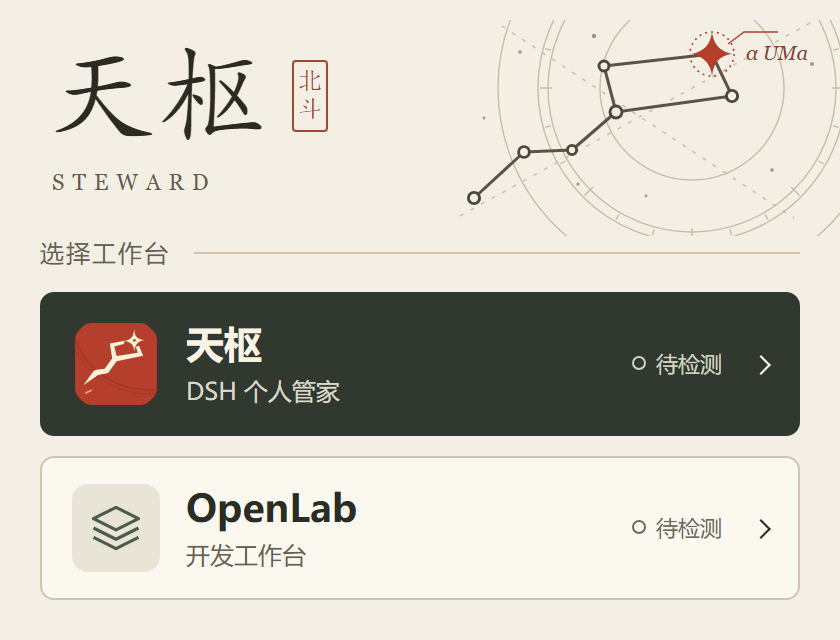
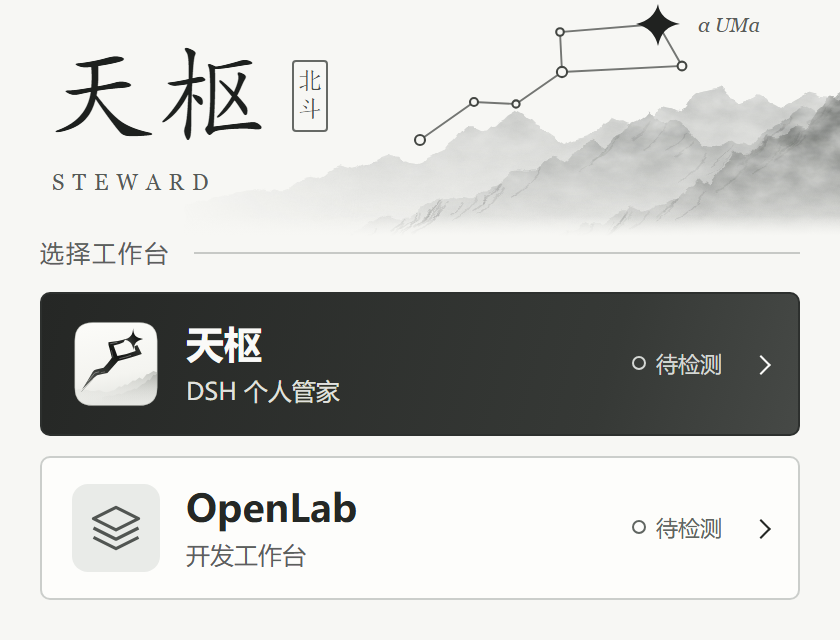
design: render Tianshu in monochrome ink and mist

diff --git a/butler/assets/tianshu-picker.html b/butler/assets/tianshu-picker.html
@@ -2,41 +2,41 @@
 <html lang="zh-CN">
 <meta charset="utf-8">
 <meta name="viewport" content="width=device-width,initial-scale=1">
-<title>天枢 · 工作台选择设计稿</title>
+<title>天枢 · 水墨工作台选择设计稿</title>
 <style>
   * { box-sizing: border-box }
   body { margin: 0; background: transparent }
-  #tianshu-picker { width: min(100%, 420px); margin: auto; color: #282920; background: #F4EFE4; font: 14px "Microsoft YaHei UI","Microsoft YaHei",sans-serif; color-scheme: light }
+  #tianshu-picker { width: min(100%, 420px); margin: auto; color: #242624; background: #F7F7F4; font: 14px "Microsoft YaHei UI","Microsoft YaHei",sans-serif; color-scheme: light }
   #tianshu-picker .mast { height: 118px; position: relative; overflow: hidden; padding: 17px 22px 0; isolation: isolate }
-  #tianshu-picker .map { position: absolute; z-index: -1; top: 10px; right: -9px; width: 216px; height: 128px }
+  #tianshu-picker .map { position: absolute; z-index: -1; top: 0; right: 0; width: 100%; height: 118px; object-fit: cover; object-position: right bottom }
   #tianshu-picker .brand { display: flex; align-items: center; gap: 10px; height: 61px }
-  #tianshu-picker h1 { font: 55px/1 STKaiti,KaiTi,SimSun,serif; margin: 0; letter-spacing: 2px; color: #2C2B23 }
-  #tianshu-picker .chop { color: #9E3928; border: 1px solid #A54833; padding: 3px 2px; font: 12px/1 SimSun,serif; writing-mode: vertical-rl; letter-spacing: 2px; border-radius: 2px }
-  #tianshu-picker .roman { color: #665D4E; margin: 7px 0 0 4px; font: 11px Georgia,serif; letter-spacing: 4px }
+  #tianshu-picker h1 { font: 55px/1 STKaiti,KaiTi,SimSun,serif; margin: 0; letter-spacing: 2px; color: #1D201E }
+  #tianshu-picker .chop { color: #494C49; border: 1px solid #666965; padding: 3px 2px; font: 12px/1 SimSun,serif; writing-mode: vertical-rl; letter-spacing: 2px; border-radius: 2px }
+  #tianshu-picker .roman { color: #575B58; margin: 7px 0 0 4px; font: 11px Georgia,serif; letter-spacing: 4px }
   #tianshu-picker .choices { padding: 0 20px 20px }
-  #tianshu-picker h2 { display: flex; align-items: center; gap: 12px; margin: 0 0 11px; height: 17px; font-size: 12px; font-weight: 500; color: #685F51; letter-spacing: 1px }
-  #tianshu-picker h2::after { content: ""; flex: 1; height: 1px; background: #CFC4AF }
-  #tianshu-picker .entry { display: grid; width: 100%; grid-template-columns: 45px minmax(0,1fr) auto 11px; gap: 12px; align-items: center; padding: 0 15px; height: 72px; border: 1px solid #CFC5B1; border-radius: 7px; background: #FBF8F0; color: #2B2D25; font: inherit; text-align: left; cursor: pointer }
+  #tianshu-picker h2 { display: flex; align-items: center; gap: 12px; margin: 0 0 11px; height: 17px; font-size: 12px; font-weight: 500; color: #5C605D; letter-spacing: 1px }
+  #tianshu-picker h2::after { content: ""; flex: 1; height: 1px; background: #C7C9C6 }
+  #tianshu-picker .entry { display: grid; width: 100%; grid-template-columns: 45px minmax(0,1fr) auto 11px; gap: 12px; align-items: center; padding: 0 15px; height: 72px; border: 1px solid #CBCECB; border-radius: 5px; background: #FDFDFB; color: #252825; font: inherit; text-align: left; cursor: pointer }
   #tianshu-picker .entry + .entry { margin-top: 10px }
-  #tianshu-picker .main { border-color: #30382F; background: #30382F; color: #FBF4E6 }
-  #tianshu-picker .entry:hover { background: #F1E9D9; border-color: #917F63 }
-  #tianshu-picker .main:hover { background: #3B4638; border-color: #56624F }
+  #tianshu-picker .main { border-color: #2D302E; background: linear-gradient(105deg, #252725, #363936 74%, #464946); color: #FAFAF8 }
+  #tianshu-picker .entry:hover { background: #ECEDEB; border-color: #848885 }
+  #tianshu-picker .main:hover { background: #393D3A; border-color: #545956 }
   #tianshu-picker .entry:active { transform: translateY(1px) }
-  #tianshu-picker .entry:focus-visible { outline: 2px solid #A63725; outline-offset: 3px }
-  #tianshu-picker .entry[aria-pressed=true] .state { color: #91402C; font-weight: bold }
-  #tianshu-picker .main[aria-pressed=true] .state { color: #FFE0AD }
+  #tianshu-picker .entry:focus-visible { outline: 2px solid #414642; outline-offset: 3px }
+  #tianshu-picker .entry[aria-pressed=true] .state { color: #222522; font-weight: bold }
+  #tianshu-picker .main[aria-pressed=true] .state { color: #FFFFFF }
   #tianshu-picker .mark { width: 44px; height: 44px }
   #tianshu-picker .entry strong { display: block; font-size: 19px; font-weight: 600; line-height: 1.25 }
-  #tianshu-picker .entry small { display: block; margin-top: 3px; font-size: 12px; color: #685F51 }
-  #tianshu-picker .main small { color: #DBD8C8 }
-  #tianshu-picker .state { color: #71695B; font-size: 11px; white-space: nowrap }
-  #tianshu-picker .main .state { color: #D1D2C2 }
+  #tianshu-picker .entry small { display: block; margin-top: 3px; font-size: 12px; color: #5C605D }
+  #tianshu-picker .main small { color: #E0E1DE }
+  #tianshu-picker .state { color: #606561; font-size: 11px; white-space: nowrap }
+  #tianshu-picker .main .state { color: #D5D8D5 }
   #tianshu-picker .state::before { display: inline-block; content: ""; width: 5px; height: 5px; border: 1px solid currentColor; border-radius: 50%; margin: 0 5px 1px 0 }
   #tianshu-picker .entry[aria-pressed=true] .state::before { background: currentColor }
   #tianshu-picker .arrow { width: 7px; height: 7px; justify-self: end; border: solid currentColor; border-width: 1.4px 1.4px 0 0; transform: rotate(45deg) }
-  #tianshu-picker .labmark { background: #E8E5D7; border-radius: 8px; display: grid; place-items: center; color: #4D5B4C }
+  #tianshu-picker .labmark { background: #E9EBE8; border-radius: 8px; display: grid; place-items: center; color: #515552 }
   #tianshu-picker .labmark svg { width: 30px; height: 30px }
-  @media (max-width:360px) { #tianshu-picker .map { right: -42px } #tianshu-picker .entry { padding-inline: 11px; gap: 8px } }
+  @media (max-width:360px) { #tianshu-picker .map { width: 88%; height: 100%; object-fit: fill; object-position: right bottom } #tianshu-picker .entry { padding-inline: 11px; gap: 8px } }
 </style>
 <main id="tianshu-picker" aria-label="天枢统一入口设计预览">
   <header class="mast">

diff --git a/butler/assets/README.md b/butler/assets/README.md
@@ -1,9 +1,9 @@
-# 天枢 · 北斗星印
+# 天枢 · 水墨北斗
 
-桌面图标用朱砂印面承托米白色的斗柄与斗身。斗口的天枢留作四芒星，和选择窗口星图中的朱砂主星对应。星图为北斗示意图。
+桌面图标以纸白衬浓墨，斗柄收笔露出飞白，斗口的四芒星标出天枢。选择窗口把同一颗星放在远山上方，山影以淡墨分出前后，让星图和入口文字保持清晰。星图为北斗示意图。
 
-- `tianshu.ico` 是 Windows 快捷方式图标，含 16、20、24、32、48、64、128、256 像素八档 PNG。小尺寸加粗斗形，并省去边线和星心细节。
+- `tianshu.ico` 是 Windows 快捷方式图标，含 16、20、24、32、48、64、128、256 像素八档 PNG。16 至 32 像素档加粗斗形并省去山影和飞白。
 - `tianshu.png` 是 256 像素图标，`tianshu-seal.svg` 是矢量母版。旧的 `make-icon.ps1` 会用旧图案覆盖 PNG 和 ICO。
 - `tianshu-picker.html` 为可离线打开的选择界面设计稿，与两份 SVG 放在同一目录。点击、Tab 和回车可体验选择反馈。`tianshu-picker.png` 是 420 × 320 内容区的两倍分辨率预览，`tianshu-chart.svg` 为独立星图。
 
-原生窗口落地时，第一行接现有天枢启动动作，第二行接 OpenLab。每行右侧放各自的检测状态，初始为“待检测”，随后显示“运行中”或“未启动”。设计稿点击后显示的“已选择”仅用于演示。颜色取纸白 `#F4EFE4`、松墨 `#30382F`、朱砂 `#B53E2C`。窗口系统标题栏在内容区之外。
+原生窗口落地时，第一行接现有天枢启动动作，第二行接 OpenLab。每行右侧放各自的检测状态，初始为“待检测”，随后显示“运行中”或“未启动”。设计稿点击后显示的“已选择”仅用于演示。窗口底色为纸白 `#F7F7F4`，主标题为浓墨 `#1D201E`，辅助文字为墨灰 `#5C605D`。系统标题栏在内容区之外。

diff --git a/notes/2026-11-25.md b/notes/2026-11-25.md
@@ -14,3 +14,9 @@
 - 在原图标路径交付八档 ICO 与 PNG，附矢量母版、星图、离线交互稿和首屏预览。原生启动器接线留给落地环节。
 - 验证了 420 和 320 像素宽度、素材加载、键盘与点击选择，检查了图标和两倍分辨率首屏渲染结果。
 - 可复用教训：多尺寸图标在 16 至 32 像素档要单独加粗主形，细节只留给较大的档位。
+
+## 图标与入口改为水墨风
+
+- 用户不喜欢上一版配色，指定水墨风。图标换成纸白墨斗，首屏改为淡墨远山与北斗星图，两行入口按墨色浓淡区分。
+- 已更新 ICO、PNG、矢量素材与可交互设计稿。检查了 320、360 和 420 像素宽的首屏，以及键盘和点击反馈。
+- 教训：淡墨山影的起笔和底部都要渐隐，避免层叠形状的矩形边缘露出。
